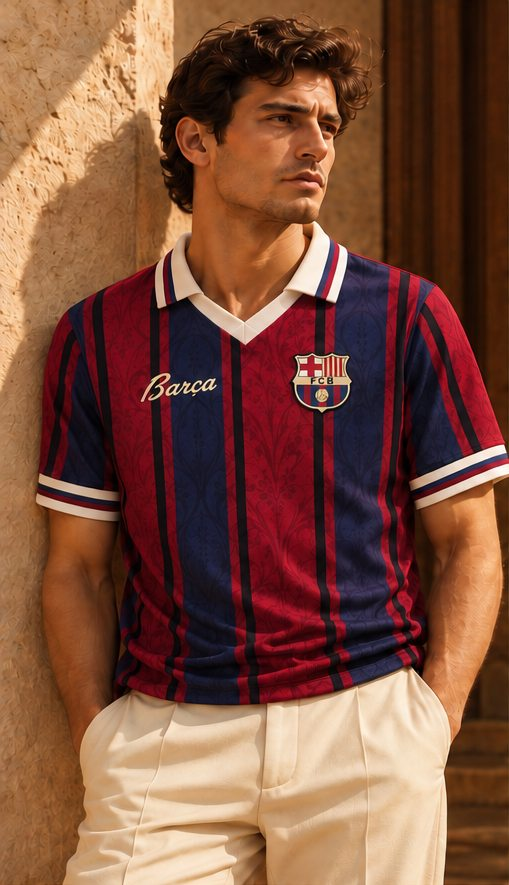
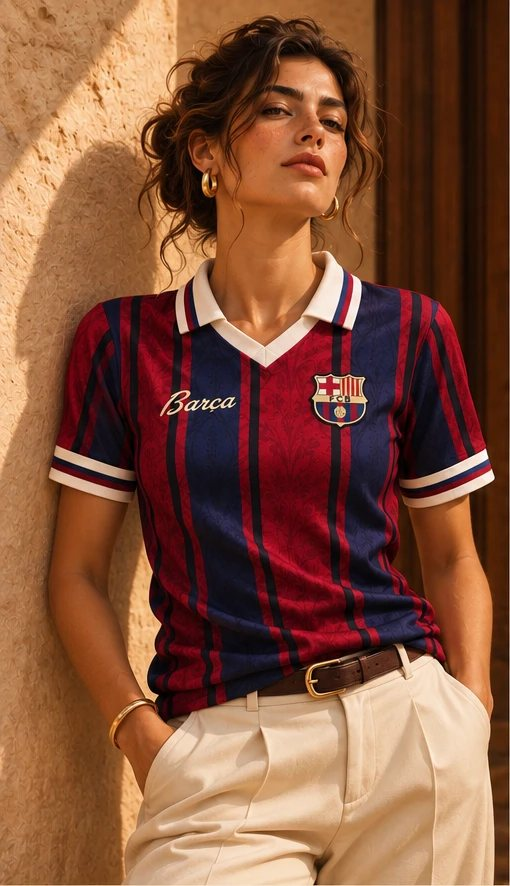
Add men's and women's sections
Add shop pages and a jersey setting for men's and women's, and show the
section at checkout and on orders so the right jersey gets packed. Use a
women's model photo for the Barca jersey, and let photo credits appear
without a source link.

diff --git a/public/app.js b/public/app.js
@@ -1,6 +1,6 @@
 const T = {
   en: {
-    skip: 'Skip to content', shop: 'Shop', archive: 'The Archive', cart: 'Cart', otherLang: 'ES', otherLangName: 'Ver en español',
+    skip: 'Skip to content', shop: 'Shop', archive: 'The Archive', navArchive: 'Archive', men: 'Men', women: 'Women', all: 'All', womens: 'Women’s', sizeWomens: 'Size (women’s)', emptySection: 'New jerseys are on the way.', cart: 'Cart', otherLang: 'ES', otherLangName: 'Ver en español',
     intro: 'New retro-style football jerseys, chosen for the players, goals and eras people still remember.',
     shopAll: 'Shop the collection', viewAll: 'View all', collection: 'The collection',
     statement: ['We don’t sell jerseys.', 'We archive memories.'], regular: 'Regular price', sale: 'Sale price', save: (n) => `$${n} off`,
@@ -27,7 +27,7 @@ const T = {
     retroNote: 'A new jersey inspired by this history. It is not a shirt worn in these matches.',
   },
   es: {
-    skip: 'Ir al contenido', shop: 'Tienda', archive: 'El Archivo', cart: 'Carrito', otherLang: 'EN', otherLangName: 'View in English',
+    skip: 'Ir al contenido', shop: 'Tienda', archive: 'El Archivo', navArchive: 'Archivo', men: 'Hombres', women: 'Mujeres', all: 'Todas', womens: 'De mujer', sizeWomens: 'Talla (mujer)', emptySection: 'Pronto habrá nuevas camisolas.', cart: 'Carrito', otherLang: 'EN', otherLangName: 'View in English',
     intro: 'Camisolas de fútbol nuevas de estilo retro, elegidas por los jugadores, los goles y las épocas que seguimos recordando.',
     shopAll: 'Ver la colección', viewAll: 'Ver todas', collection: 'La colección',
     statement: ['No vendemos camisetas.', 'Archivamos recuerdos.'], regular: 'Precio regular', sale: 'Precio de oferta', save: (n) => `$${n} de descuento`,
@@ -137,7 +137,7 @@ function priceLine(p) {
 
 function card(p, headingTag = 'h3') {
   const soldOut = totalStock(p) === 0;
-  const meta = [p.team, playerLine(p)].filter(Boolean).join(' · ');
+  const meta = [p.section === 'women' ? t().womens : '', p.team, playerLine(p)].filter(Boolean).join(' · ');
   const alt = [p.team, playerLine(p), p.title].filter(Boolean).join(', ');
   const media = p.images[0]
     ? `<div class="plate has-photo swap"><img src="${esc(p.images[0])}" alt="${esc(alt)}" width="502" height="886" loading="lazy">${p.images[1] ? `<img class="alt" src="${esc(p.images[1])}" alt="" width="510" height="886" loading="lazy">` : ''}</div>`
@@ -160,7 +160,7 @@ function photoFigure(p) {
   return `<figure class="history-photo">
     <img src="${esc(ph.src)}" alt="${esc(ph.alt[lang])}" width="${ph.w}" height="${ph.h}" loading="lazy">
     <figcaption>${esc(ph.caption[lang])}
-      <span class="credit">${esc(t().photo)}: <a href="${esc(ph.page)}" target="_blank" rel="noopener">${esc(ph.credit)}</a>, ${licence}</span>
+      <span class="credit">${esc(t().photo)}: ${ph.page ? `<a href="${esc(ph.page)}" target="_blank" rel="noopener">${esc(ph.credit)}</a>` : esc(ph.credit)}, ${licence}</span>
     </figcaption>
   </figure>`;
 }
@@ -204,7 +204,7 @@ function renderChrome() {
   document.querySelector('.skip').textContent = t().skip;
   const count = cartCount();
   header.innerHTML = `
-    <nav class="nav-left"><a class="nav-link" href="/shop" data-link>${esc(t().shop)}</a><a class="nav-link" href="/archive" data-link>${esc(t().archive)}</a></nav>
+    <nav class="nav-left"><a class="nav-link" href="/men" data-link>${esc(t().men)}</a><a class="nav-link" href="/women" data-link>${esc(t().women)}</a><a class="nav-link" href="/archive" data-link>${esc(t().navArchive)}</a></nav>
     <a class="wordmark" href="/" data-link aria-label="90:00 Archive"><b>90:00</b><span>ARCHIVE</span></a>
     <div class="nav-right">
       <button class="lang" type="button" data-action="lang" aria-label="${esc(t().otherLangName)}">${esc(t().otherLang)}</button>
@@ -264,11 +264,15 @@ function renderArchive() {
     ${chapters().map((p) => chapter(p)).join('')}`;
 }
 
-function renderShop() {
-  document.title = `${t().collection} · 90:00 Archive`;
+function renderShop(section) {
+  const heading = section ? t()[section] : t().collection;
+  document.title = `${heading} · 90:00 Archive`;
+  const list = section ? products.filter((p) => p.section === section) : products;
+  const tab = (value, label) => `<a href="${value ? `/${value}` : '/shop'}" data-link ${value === section ? 'aria-current="page"' : ''}>${esc(label)}</a>`;
   main.innerHTML = `<section class="section" style="border-top:0">
-    <div class="section-head"><h1>${esc(t().collection)}</h1></div>
-    <div class="grid">${products.map((p) => card(p, 'h2')).join('')}</div>
+    <div class="section-head"><h1>${esc(heading)}</h1></div>
+    <nav class="shop-tabs">${tab(undefined, t().all)}${tab('men', t().men)}${tab('women', t().women)}</nav>
+    ${list.length ? `<div class="grid">${list.map((p) => card(p, 'h2')).join('')}</div>` : `<p class="section-empty">${esc(t().emptySection)}</p>`}
   </section>`;
 }
 
@@ -292,12 +296,12 @@ function renderProduct(p) {
       <a class="back" href="/shop" data-link>← ${esc(t().back)}</a>
       ${p.history ? `<p class="collection-name">${esc(t().era)} ${esc(p.history.years)}</p>` : ''}
       <h1>${esc(p.title)}</h1>
-      <p class="player">${esc([p.team, playerLine(p)].filter(Boolean).join(' · '))}</p>
+      <p class="player">${esc([p.section === 'women' ? t().womens : '', p.team, playerLine(p)].filter(Boolean).join(' · '))}</p>
       ${priceLine(p)}
       <p class="saving">${esc(t().save(p.discountUsd))}</p>
       ${p.notes[lang].length ? `<ul class="notes">${p.notes[lang].map((n) => `<li>${esc(n)}</li>`).join('')}</ul>` : ''}
       <form data-add="${esc(p.slug)}" novalidate>
-        <fieldset><legend>${esc(t().size)}</legend><div class="sizes">${sizes}</div></fieldset>
+        <fieldset><legend>${esc(p.section === 'women' ? t().sizeWomens : t().size)}</legend><div class="sizes">${sizes}</div></fieldset>
         <button class="button" type="submit" ${available ? '' : 'disabled'}>${esc(available ? t().add : t().soldOut)}</button>
         <p class="status" role="status"></p>
       </form>
@@ -321,7 +325,7 @@ function renderCart() {
       ${visual(p)}
       <div>
         <h2>${esc(p.team)}</h2>
-        <div class="meta">${esc([playerLine(p), `${t().size} ${line.size}`].filter(Boolean).join(' · '))}</div>
+        <div class="meta">${esc([playerLine(p), `${p.section === 'women' ? t().sizeWomens : t().size} ${line.size}`].filter(Boolean).join(' · '))}</div>
         <div class="line-actions">
           <span class="stepper">
             <button type="button" data-action="dec" data-key="${key}" aria-label="${esc(t().fewer)}">−</button>
@@ -362,6 +366,7 @@ function route() {
   const productMatch = path.match(/^\/shop\/([a-z0-9-]+)$/);
   if (path === '/') return renderHome();
   if (path === '/shop') return renderShop();
+  if (path === '/men' || path === '/women') return renderShop(path.slice(1));
   if (path === '/archive') return renderArchive();
   if (path === '/cart') return renderCart();
   if (path === '/order/complete') {

diff --git a/public/admin/admin.js b/public/admin/admin.js
@@ -158,7 +158,7 @@ async function renderOrder(id) {
           ${order.items.map((i) => `<div class="item">
             ${i.image ? `<img class="thumb" src="${esc(i.image)}" alt="">` : '<div class="thumb"></div>'}
             <div><strong>${esc(i.title)}</strong><div class="muted small">${esc([i.team, i.player && `${i.player} #${i.number}`].filter(Boolean).join(' · '))}</div>
-              <div class="small">Size <strong>${esc(i.size)}</strong> × ${esc(i.qty)}</div></div>
+              <div class="small">${i.section === 'women' ? '<strong>Women’s</strong> size' : 'Size'} <strong>${esc(i.size)}</strong> × ${esc(i.qty)}</div></div>
             <div>${esc(money(i.unitCents * i.qty))}</div>
           </div>`).join('')}
           <div class="totals">
@@ -252,7 +252,7 @@ function addManualLine() {
   const row = document.createElement('div');
   row.className = 'line-item';
   row.innerHTML = `
-    <div><label>Jersey</label><select data-role="jersey">${manualJerseys.map((j) => `<option value="${esc(j.slug)}">${esc(j.title)} (${esc(j.team)})</option>`).join('')}</select></div>
+    <div><label>Jersey</label><select data-role="jersey">${manualJerseys.map((j) => `<option value="${esc(j.slug)}">${esc(j.title)} (${esc(j.team)}${j.section === 'women' ? ', women’s' : ''})</option>`).join('')}</select></div>
     <div><label>Size</label><select data-role="size"></select></div>
     <div><label>Qty</label><input data-role="qty" type="number" min="1" value="1"></div>
     <button class="btn tiny" type="button" data-action="remove-line">Remove</button>`;
@@ -276,7 +276,7 @@ async function renderJerseys() {
       ${j.images?.[0] ? `<img class="thumb" src="${esc(j.images[0])}" alt="" loading="lazy">` : '<div class="thumb"></div>'}
       <div><a href="/admin/jerseys/${esc(j.slug)}" data-link><strong>${esc(j.title)}</strong></a>
         <div class="muted small">${esc([j.team, j.player && `${j.player} #${j.number}`].filter(Boolean).join(' · '))}</div>
-        <div class="small">${esc(money(Math.round((j.priceUsd - (j.discountUsd || 0)) * 100)))}${j.discountUsd ? ` <span class="muted">(list ${esc(money(Math.round(j.priceUsd * 100)))})</span>` : ''}${j.active ? '' : ' · <span class="badge">Hidden</span>'}</div></div>
+        <div class="small">${j.section === 'women' ? 'Women’s · ' : 'Men’s · '}${esc(money(Math.round((j.priceUsd - (j.discountUsd || 0)) * 100)))}${j.discountUsd ? ` <span class="muted">(list ${esc(money(Math.round(j.priceUsd * 100)))})</span>` : ''}${j.active ? '' : ' · <span class="badge">Hidden</span>'}</div></div>
       <div class="stock">${Object.entries(j.stock).map(([s, q]) => `<span class="${q ? '' : 'out'}">${esc(s)}: ${esc(q)}</span>`).join('')}</div>
       <div class="row">
         <button class="btn tiny" type="button" data-action="move" data-slug="${esc(j.slug)}" data-direction="up" aria-label="Move ${esc(j.title)} up" ${i === 0 ? 'disabled' : ''}>↑</button>
@@ -321,7 +321,7 @@ function renderHistoryPhoto() {
 async function renderJerseyEditor(slug) {
   const isNew = slug === 'new';
   let j = {
-    title: '', team: '', player: '', number: '', priceUsd: 90, discountUsd: 10, active: true,
+    section: 'men', title: '', team: '', player: '', number: '', priceUsd: 90, discountUsd: 10, active: true,
     stock: { M: 0, L: 0, XL: 0 }, notes: { en: [], es: [] }, images: [], history: null,
   };
   if (!isNew) {
@@ -354,6 +354,8 @@ async function renderJerseyEditor(slug) {
           ${field('priceUsd', 'List price ($)', j.priceUsd, { type: 'number', attrs: 'min="0" step="0.01" required' })}
           ${field('discountUsd', 'Discount ($)', j.discountUsd ?? 0, { type: 'number', attrs: 'min="0" step="0.01"', hint: 'Customers pay the list price minus this.' })}
         </div>
+        <div class="field" style="max-width:260px"><label for="section">Section</label>
+          <select id="section" name="section"><option value="men" ${j.section !== 'women' ? 'selected' : ''}>Men’s</option><option value="women" ${j.section === 'women' ? 'selected' : ''}>Women’s</option></select></div>
         <label class="check field"><input type="checkbox" name="active" ${j.active !== false ? 'checked' : ''}> Show on the website</label>
       </section>
       <section class="card">
@@ -414,6 +416,7 @@ function readJersey(form) {
     if (input.value !== '') stock[input.dataset.size] = Number(input.value);
   });
   return {
+    section: v('section'),
     title: v('title'),
     team: v('team'),
     player: v('player'),

diff --git a/store.js b/store.js
@@ -80,6 +80,7 @@ export function cleanJersey(input) {
     es: (input?.notes?.es ?? []).map((x) => text(x, 120)).filter(Boolean),
   };
   const jersey = {
+    section: input?.section === 'women' ? 'women' : 'men',
     title: text(input?.title, 120) || team,
     team,
     player: text(input?.player, 120) || null,
@@ -133,7 +134,7 @@ export function cleanJersey(input) {
 // Shoppers see English wherever Spanish has not been written yet, rather than a blank.
 const fill = (value) => (value ? { en: value.en, es: value.es?.length ? value.es : value.en } : value);
 export function toPublicJersey(slug, data) {
-  const out = { ...data, slug, stock: sortStock(data.stock), notes: fill(data.notes ?? { en: [], es: [] }), images: data.images ?? [], title: data.title || data.team };
+  const out = { ...data, slug, section: data.section || 'men', stock: sortStock(data.stock), notes: fill(data.notes ?? { en: [], es: [] }), images: data.images ?? [], title: data.title || data.team };
   const h = data.history;
   if (h) {
     out.history = {
@@ -185,7 +186,7 @@ export function createStore(db) {
     const { rows } = await db.query('SELECT slug, position, active, data, updated_at FROM jerseys ORDER BY position, slug');
     return rows.map((r) => {
       const data = parseJson(r.data);
-      return { slug: r.slug, position: r.position, active: r.active, updatedAt: r.updated_at, ...data, stock: sortStock(data.stock) };
+      return { slug: r.slug, position: r.position, active: r.active, updatedAt: r.updated_at, ...data, section: data.section || 'men', stock: sortStock(data.stock) };
     });
   }
 
@@ -275,7 +276,7 @@ export function createStore(db) {
       const data = parseJson(rows[0].data);
       if (!(size in (data.stock ?? {}))) throw new UserError(`${data.title || data.team} does not come in ${size}.`);
       if (data.stock[size] < qty) throw new UserError(`Only ${data.stock[size]} left of ${data.title || data.team} in ${size}.`, 409);
-      items.push({ slug, size, qty, title: data.title || data.team, team: data.team, player: data.player ?? null, number: data.number ?? null, unitCents: finalCents(data), image: data.images?.[0] ?? null });
+      items.push({ slug, size, qty, section: data.section || 'men', title: data.title || data.team, team: data.team, player: data.player ?? null, number: data.number ?? null, unitCents: finalCents(data), image: data.images?.[0] ?? null });
     }
     const subtotal = items.reduce((sum, i) => sum + i.unitCents * i.qty, 0);
     const units = items.reduce((sum, i) => sum + i.qty, 0);

diff --git a/tests/store.test.js b/tests/store.test.js
@@ -31,6 +31,17 @@ describe('catalog', () => {
     assert.equal(await store.seedJerseys(seed), false);
   });
 
+  test('jerseys keep their section, and orders record it for packing', async () => {
+    const barca = (await store.listPublicJerseys()).find((j) => j.slug === 'barcelona');
+    assert.equal(barca.section, 'women');
+    assert.equal((await store.listPublicJerseys()).find((j) => j.slug === HENRY).section, 'men');
+    assert.equal(cleanJersey({ team: 'X', priceUsd: 90, stock: { M: 1 } }).section, 'men');
+    assert.equal(cleanJersey({ team: 'X', priceUsd: 90, stock: { M: 1 }, section: 'nonsense' }).section, 'men');
+    assert.equal(toPublicJersey('old', { team: 'X', stock: {} }).section, 'men');
+    const order = await store.createPendingOrder([{ slug: 'barcelona', size: 'L', qty: 1 }], SETTINGS);
+    assert.equal(order.items[0].section, 'women');
+  });
+
   test('sizes always come back in shirt order', async () => {
     const order = ['S', 'M', 'L', 'XL', 'XXL'];
     await store.createJersey({ team: 'Order Test', priceUsd: 90, stock: { XXL: 1, L: 1, S: 1, XL: 1, M: 1 } });

diff --git a/public/styles.css b/public/styles.css
@@ -429,3 +429,9 @@ html { scroll-padding-top: 90px; }
 }
 
 .thanks-text { max-width: 30em; margin: -8px auto 24px; color: var(--muted); }
+
+.shop-tabs { display: flex; gap: 8px; margin: -8px 0 clamp(20px, 3vw, 32px); }
+.shop-tabs a { padding: 7px 16px; border: 1px solid var(--line); font-size: 14px; font-weight: 500; letter-spacing: 0.08em; text-decoration: none; text-transform: uppercase; }
+.shop-tabs a:hover { border-color: var(--sand); }
+.shop-tabs a[aria-current="page"] { background: var(--sand); border-color: var(--sand); color: var(--on-sand); }
+.section-empty { padding: 48px 0; color: var(--muted); text-align: center; }

diff --git a/server.js b/server.js
@@ -133,7 +133,7 @@ app.get(/^\/admin(\/.*)?$/, (_req, res) => {
   res.setHeader('Cache-Control', 'no-store');
   res.sendFile(adminFile);
 });
-app.get(/^\/(shop(\/[a-z0-9-]+)?|cart|archive|order\/complete)?\/?$/, (_req, res) => res.sendFile(indexFile));
+app.get(/^\/(shop(\/[a-z0-9-]+)?|cart|archive|men|women|order\/complete)?\/?$/, (_req, res) => res.sendFile(indexFile));
 app.use('/api', (_req, res) => res.status(404).json({ error: 'Not found.' }));
 app.use((_req, res) => res.status(404).sendFile(indexFile));
 

diff --git a/checkout.js b/checkout.js
@@ -36,7 +36,7 @@ export async function startCheckout(store, lines) {
         currency: 'usd',
         unit_amount: item.unitCents,
         product_data: {
-          name: `${item.title} (${item.size})`,
+          name: `${item.title} (${item.section === 'women' ? 'Women\'s ' : ''}${item.size})`,
           description: [item.team, item.player && `${item.player} #${item.number}`].filter(Boolean).join(' · '),
         },
       },
